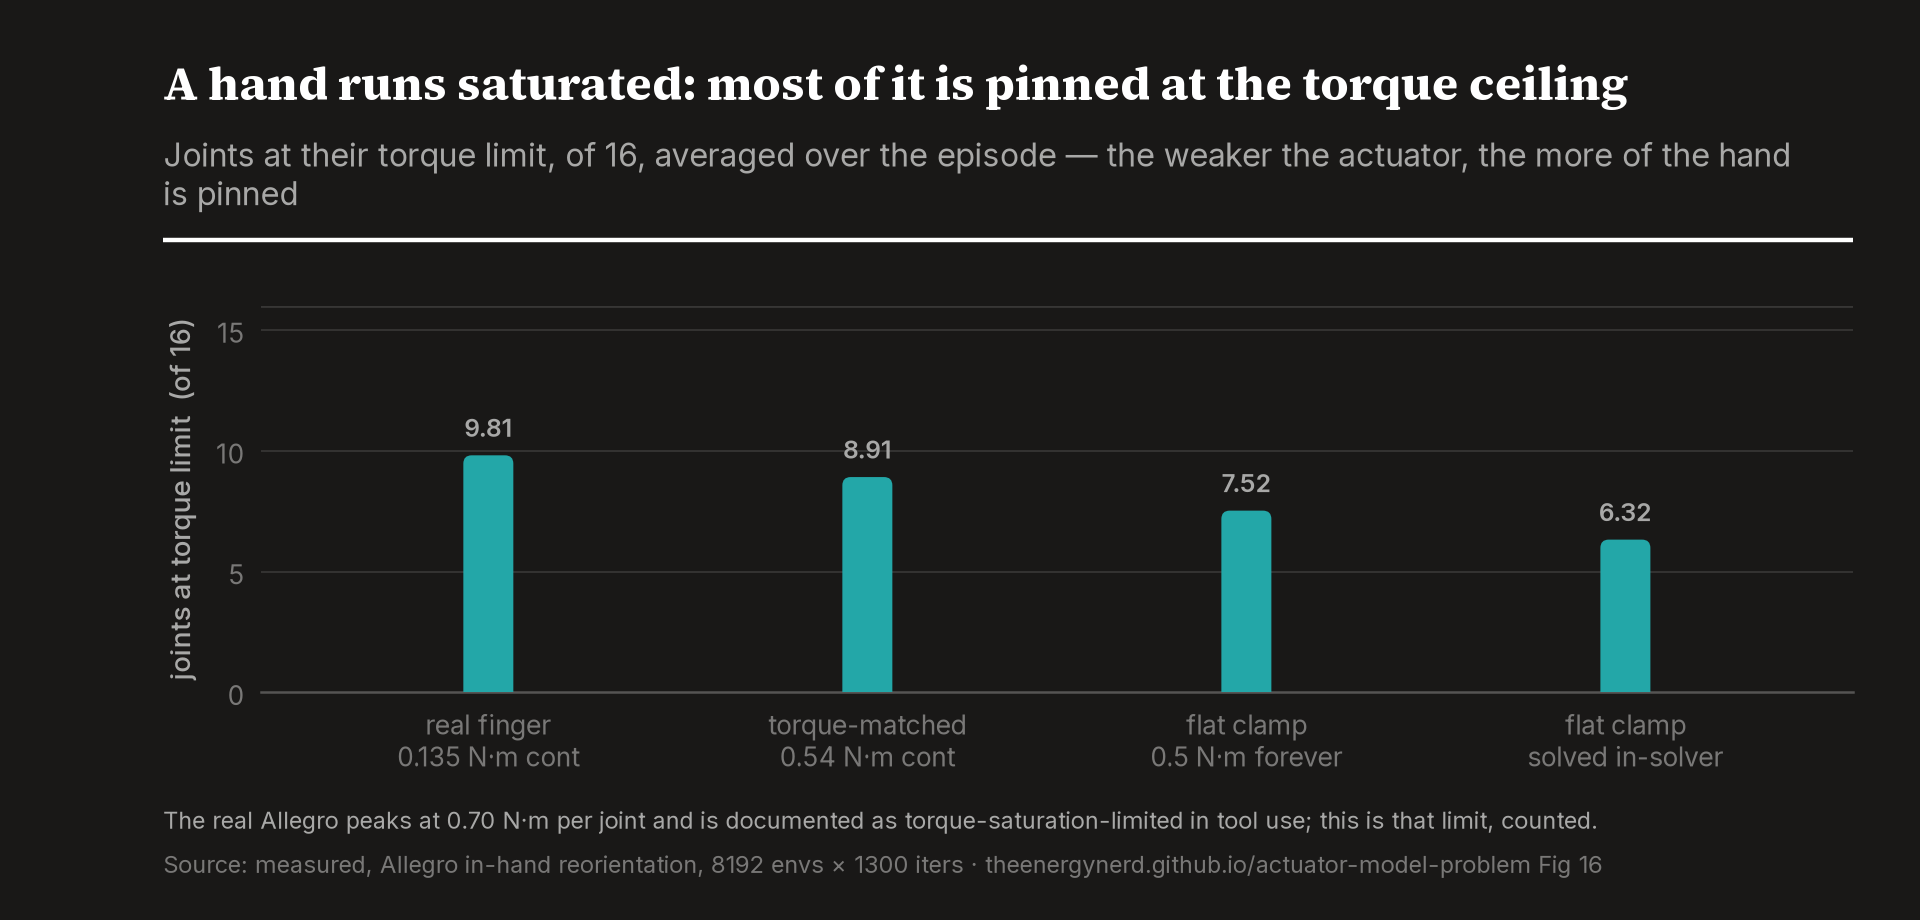
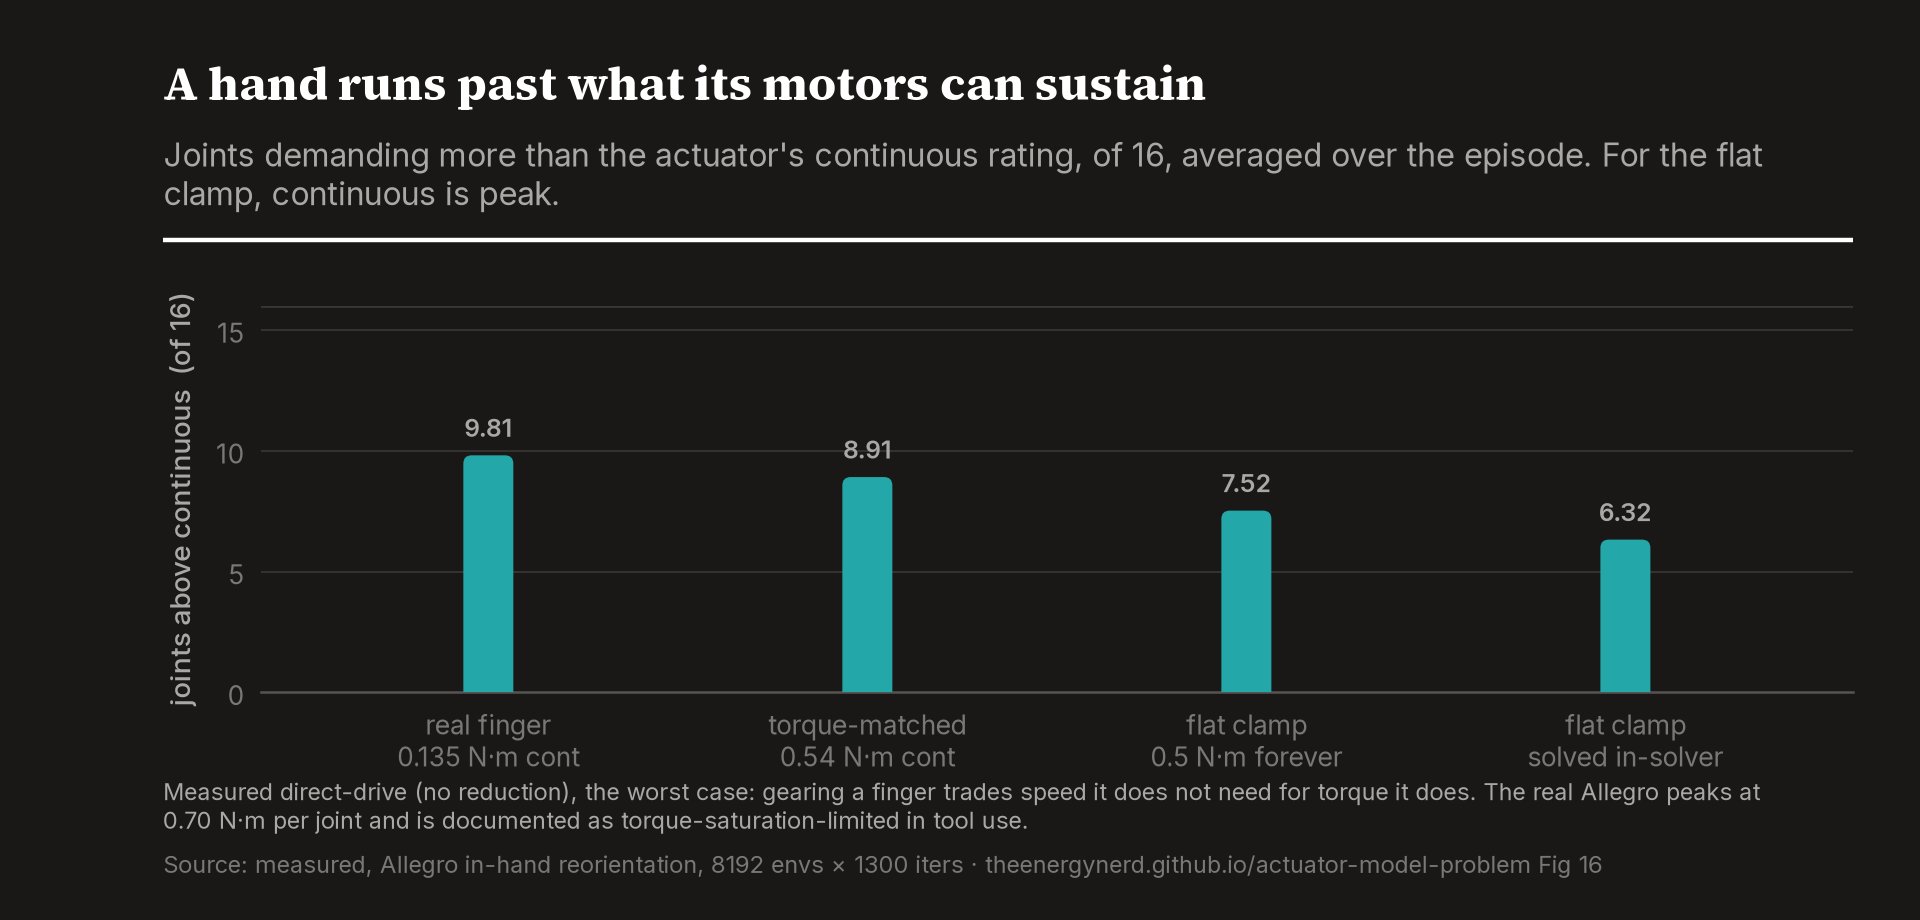
Fig 16: say what was measured, and name the modelling choice
The count was joints exceeding their CONTINUOUS rating, not joints at a hard
ceiling - for the flat clamp those coincide, but F1 can pull 0.45 N*m against a
0.135 continuous, so 'pinned at the ceiling' overstated it. Title, axis, and
caption now say 'above continuous rating'.

Also states the modelling choice the figure rests on: gear_ratio=1.0,
direct-drive, which is the worst case for saturation. A finger is precisely
where reduction is cheap.

diff --git a/index.html b/index.html
@@ -433,11 +433,13 @@ torque (0.54&nbsp;N&middot;m continuous), the stock PD-with-a-torque-clamp at
 the binding constraint at all. It is.</p>
 
 <figure><img src="assets/fig-hand-saturation.svg" alt="Joints at the torque limit, of 16, for four actuator models">
-<figcaption><b>Fig 16: the hand runs saturated.</b> On the real finger motor,
-9.8 of the hand's 16 joints are pinned at their torque ceiling at any instant, 61
-percent of the time. Even the fantasy actuator pins 6.3. This is the cascade from
-Fig 11, counted rather than drawn: most of the hand is against the stop, most of
-the time.</figcaption></figure>
+<figcaption><b>Fig 16: the hand runs past what its motors can sustain.</b> On the real
+finger motor, 9.8 of the hand's 16 joints are asking for more than the winding can hold
+continuously, 61 percent of the time; the flat clamp, which has no sustainable-versus-peak
+distinction at all, still shows 6.3. This is the cascade from Fig 11, counted rather than
+drawn. It is measured direct-drive, which is the worst case and our modelling choice: a
+finger is the one joint where you can gear freely, because it needs torque and not
+speed.</figcaption></figure>
 
 <p>That number is not an artifact of our motor being weak. The real Allegro
 peaks at 0.70&nbsp;N&middot;m per joint, and it is documented as unable to handle
